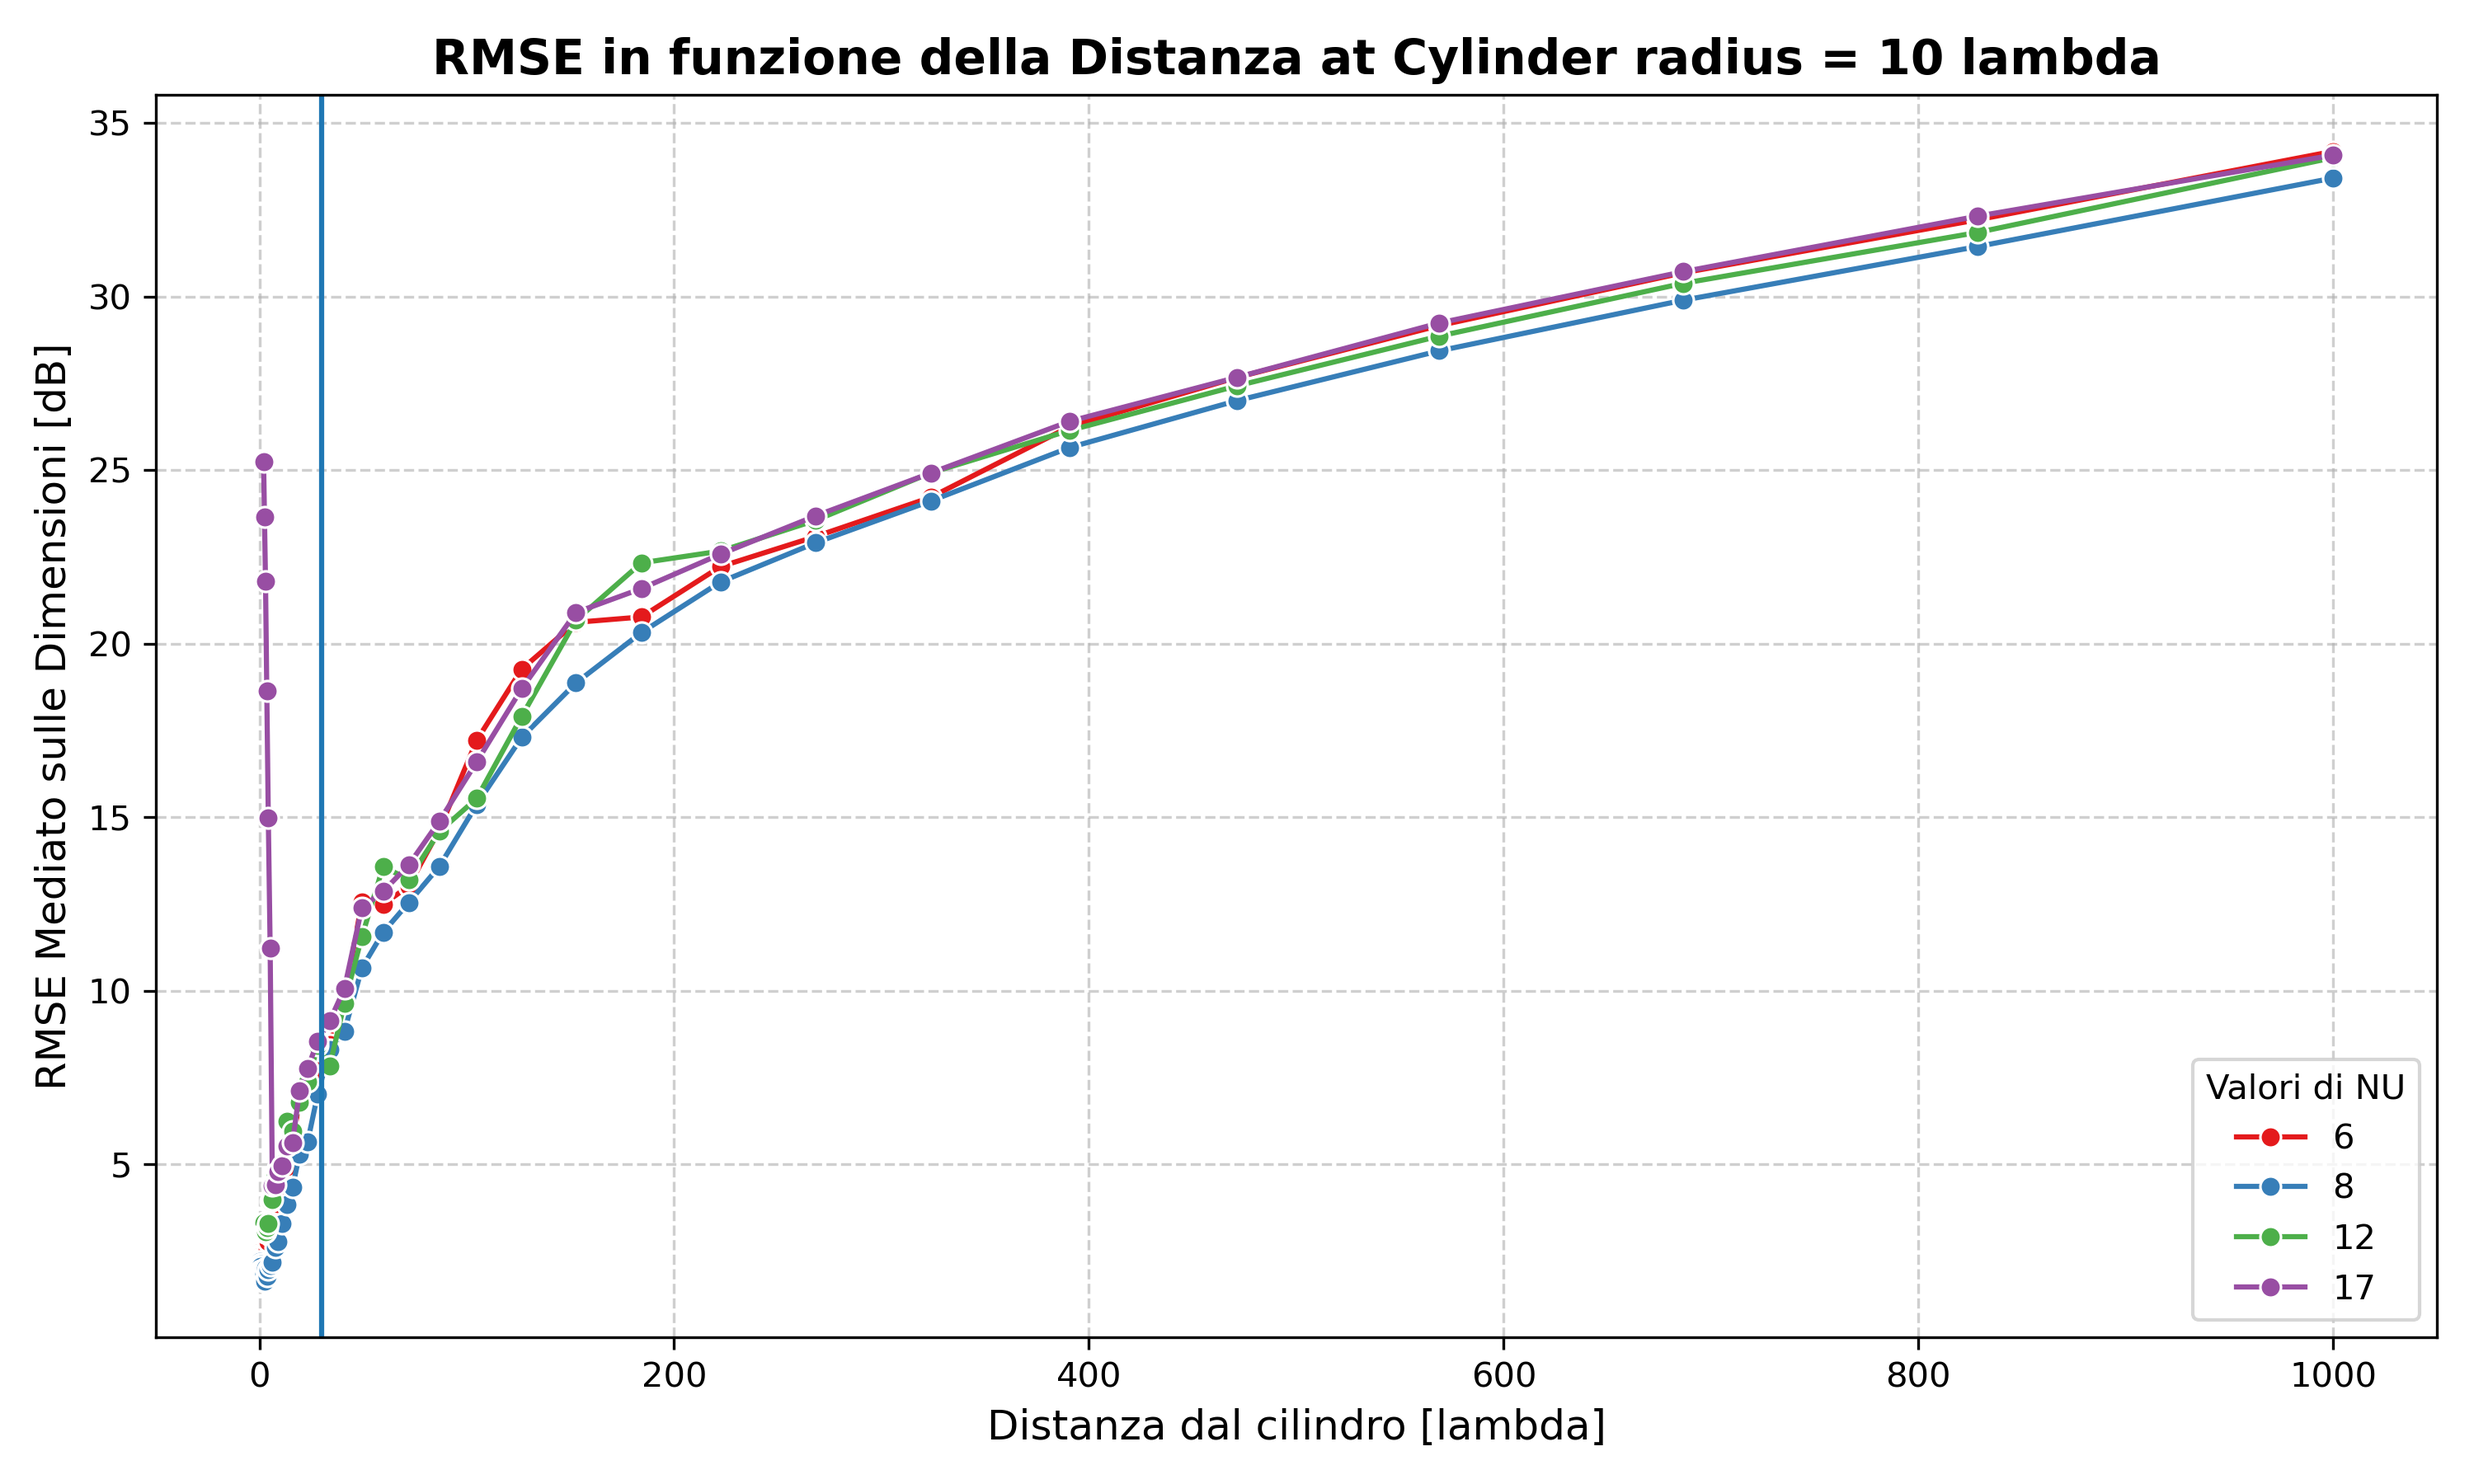
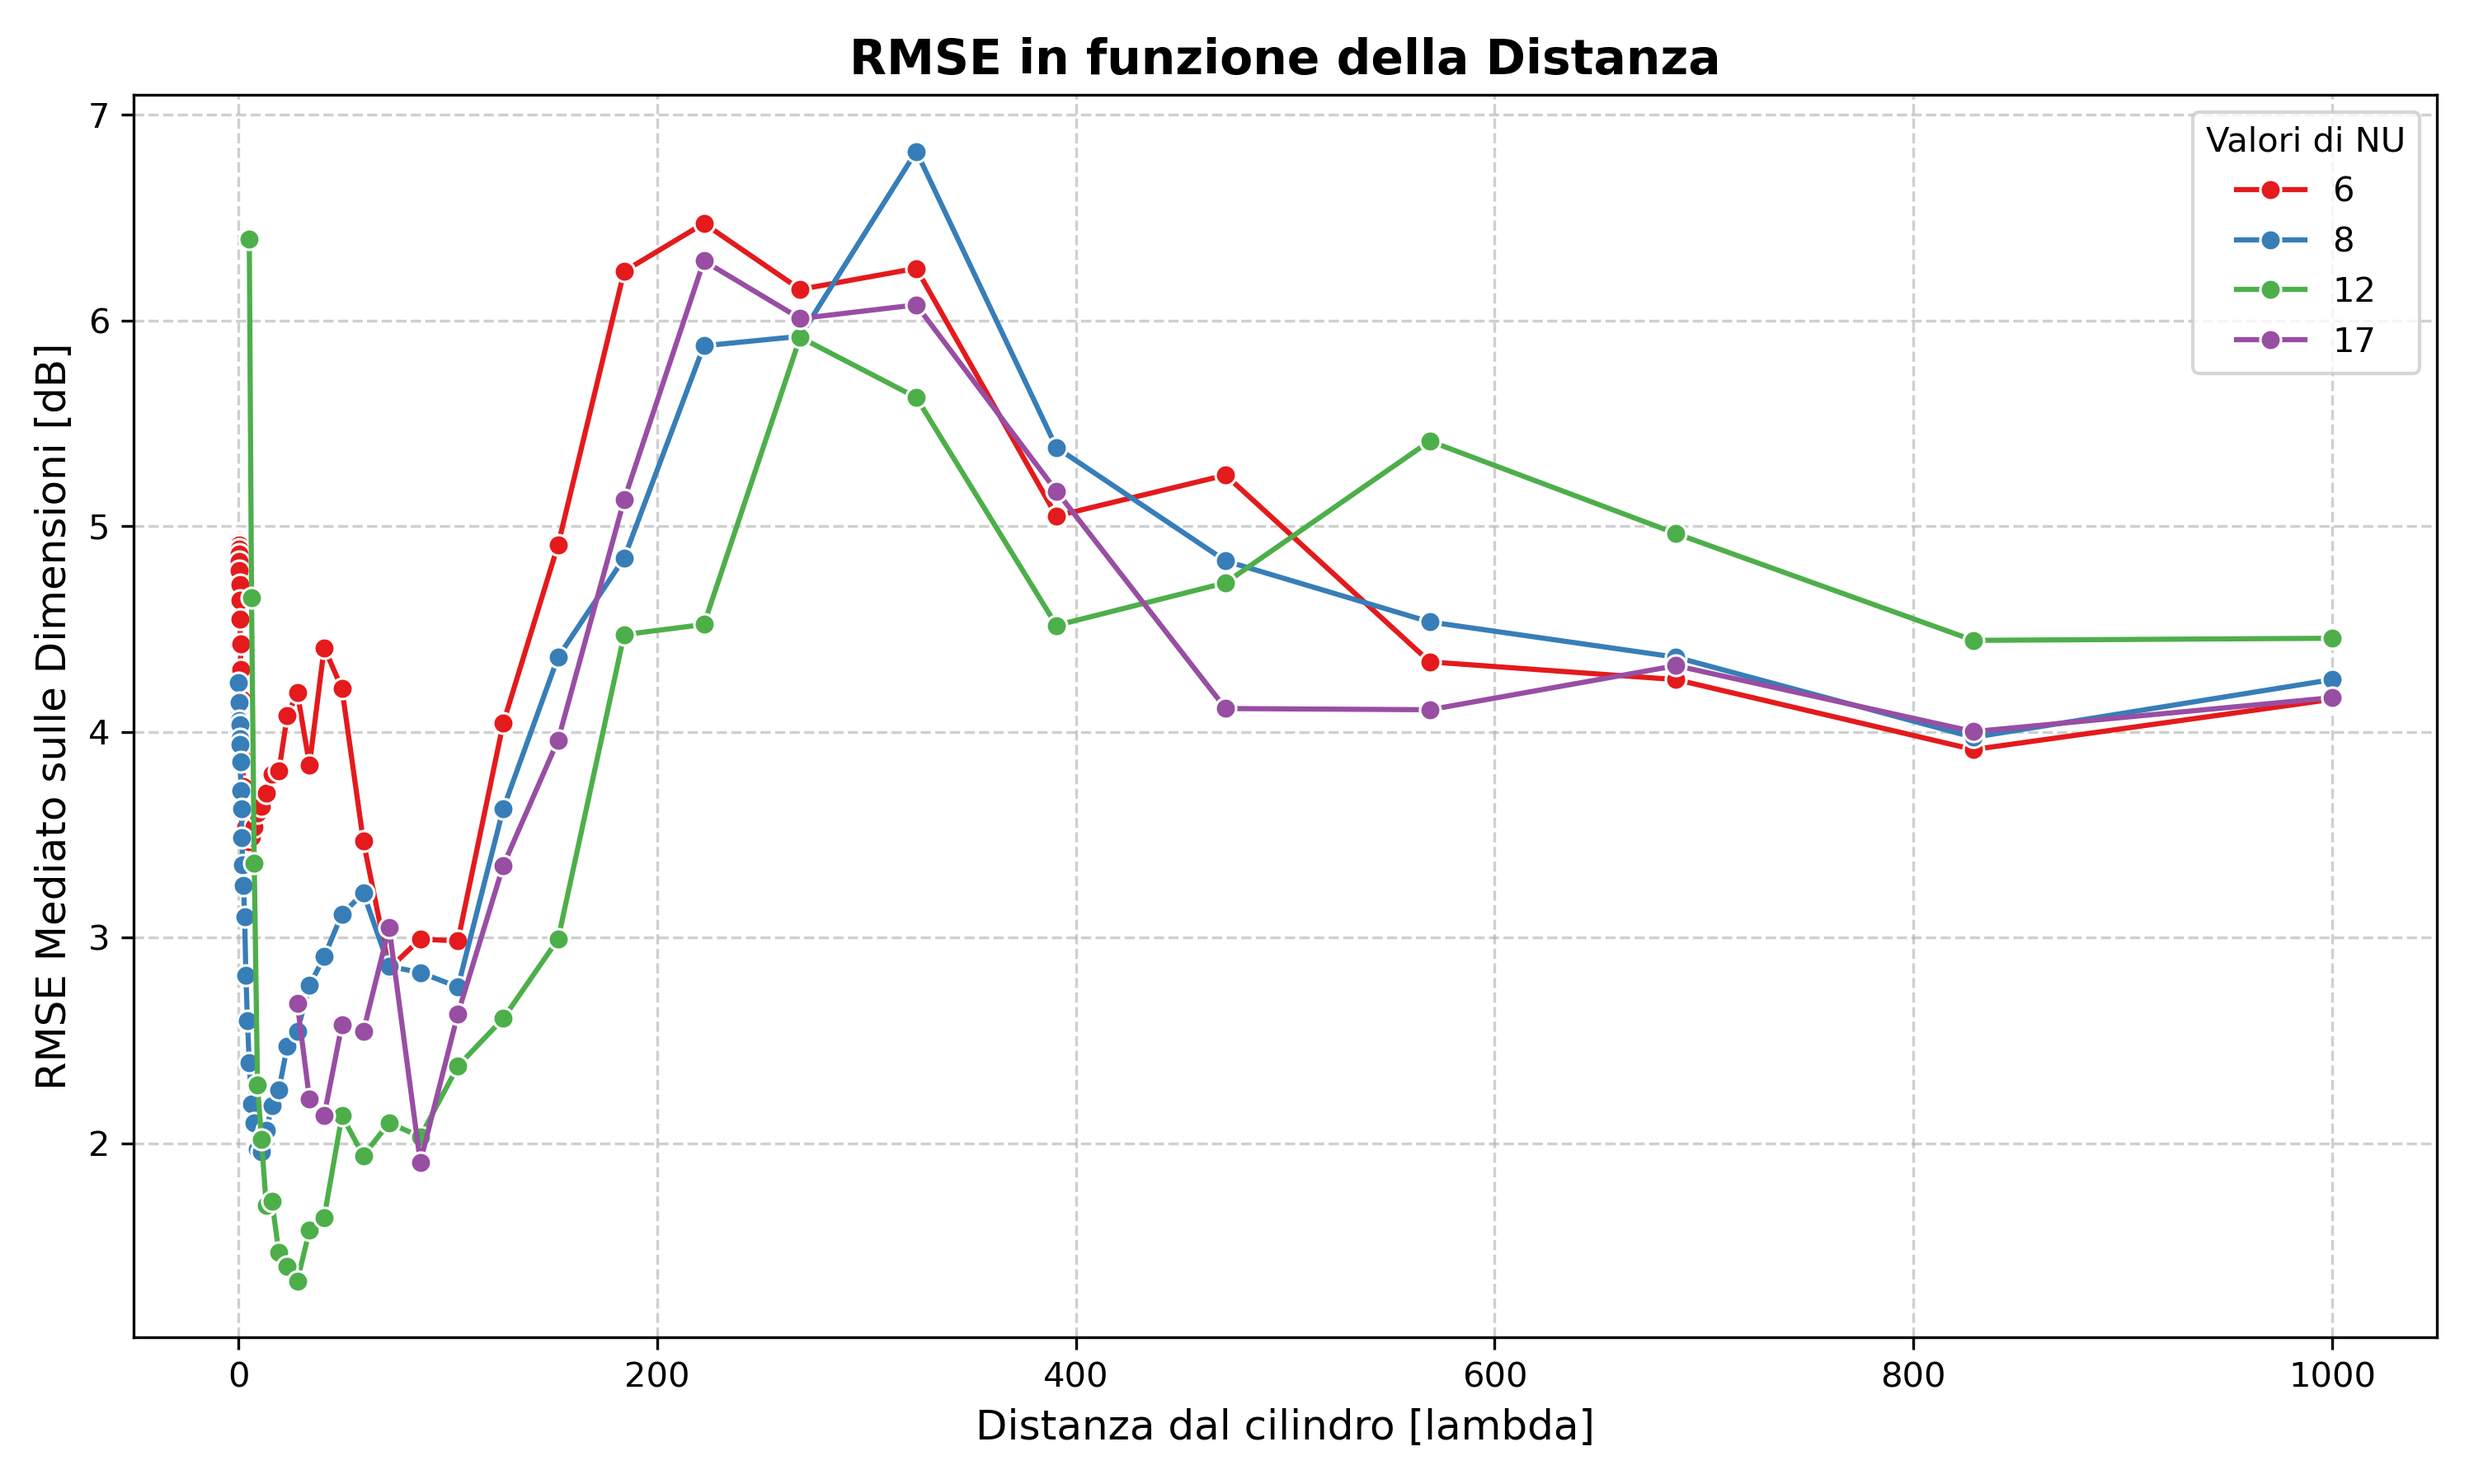
Correct the 17-nu 10-D cylinder. Update conclusions.md

diff --git a/RMSE_results/CORRECT_RESULTS/RMSE_plot_2.py b/RMSE_results/CORRECT_RESULTS/RMSE_plot_2.py
@@ -7,43 +7,27 @@ import matplotlib.pyplot as plt
 #D = [10, 12.8, 15.9, 19, 22.3, 25.6]
 #NU = [6, 8, 12, 17]
 
-d = 5
+d = 10
 NU = [6, 8, 12, 17]
 
 lamda = 3e8/2e9
 # 1. Lista per accumulare i dataframe mediati di ogni NU
-lista_mediati = []
+lista_df = []
     
 for nu in NU:
-    data_frames = []
-        # Lettura dati
     df = pd.read_csv(f"./RESULTS_{nu}_{d}.csv")
+
     df["cylinder_dimension"] = d
-    data_frames.append(df)
-
-    df_all = pd.concat(data_frames, ignore_index=True)
-    df_all['distance_in_lamda'] = df_all['distance_in_lamda'].round(2)
-
-    # 2. Calcolo la media dell'RMSE raggruppato per distanza
-    #df_dimension = df_all.groupby("distance_in_lamda")["RMSE"].mean().reset_index()
-    df_dimension = df_all
-    
-    # 3. Aggiungo la colonna 'nu' così sappiamo a quale ciclo appartengono i dati
-    df_dimension["nu"] = nu
-    
+    df["nu"] = nu
+    print(f"NU: {nu}") 
+    print(df)
     # Accumulo nella lista esterna
-    lista_mediati.append(df_dimension)
+    lista_df.append(df)
 
 # 4. Creazione del DataFrame finale unico
-df_finale = pd.concat(lista_mediati, ignore_index=True)
+df_finale = pd.concat(lista_df, ignore_index=True)
 
 print("--- DATAFRAME FINALE ACCUMULATO ---")
-print(df_finale.head(10)) # Mostra le prime 10 righe
-
-print(df_finale[df_finale["nu"]==12])
-print(df_finale[df_finale["nu"]==17])
-print(df_finale[df_finale["nu"]==8])
-print(df_finale[df_finale["nu"]==6])
 
 # =====================================================================
 # 5. GRAFICO CON SEABORN (X: distanza, Y: RMSE, Linee separate per NU)
@@ -62,7 +46,8 @@ sns.lineplot(
 )
 
 # Personalizzazione del grafico
-plt.title("RMSE in funzione della Distanza at Cylinder radius = 10 lambda", fontsize=14, fontweight='bold')
+plt.title(f"Cylinder radius = {d} $\lambda$", fontsize=14, fontweight='bold')
+plt.title(f"Cylinder radius = {d} $\lambda$", fontsize=14, fontweight='bold')
 plt.xlabel("Distanza dal cilindro [lambda]", fontsize=12)
 plt.ylabel("RMSE Mediato sulle Dimensioni [dB]", fontsize=12)
 plt.grid(True, linestyle="--", alpha=0.6)
@@ -71,7 +56,9 @@ D_meter = d*lamda
 plt.axvline(x=2*((2*D_meter)**2/lamda))
 # Mostra e salva il grafico
 plt.tight_layout()
-plt.savefig("confronto_RMSE_nu.png", dpi=300)
-plt.show()
+plt.savefig(f"RMSE_D_{d}.png", dpi=300)
+
+plt.xlim([0, 100])
+plt.savefig(f"near_RMSE_D_{d}.png", dpi=300)
 
 exit()

diff --git a/RMSE_results/CORRECT_RESULTS/RMSE_analyzer.py b/RMSE_results/CORRECT_RESULTS/RMSE_analyzer.py
@@ -1,0 +1,59 @@
+import pandas as pd
+import numpy as np
+import seaborn as sns
+import matplotlib.pyplot as plt
+
+# Cylinders dimension
+D = [10, 12.8, 15.9, 19, 22.3, 25.6]
+NU = [6, 8, 12, 17]
+
+    
+for nu in NU:
+    data_frames = []
+    for d in D:
+        # Reading data
+        df = pd.read_csv(f"./RESULTS_{nu}_{d}.csv")
+        
+        # Adding a coloum with D value in the starting csv
+        df["cylinder_dimension"] = d 
+    
+        data_frames.append(df)
+
+
+    df_all = pd.concat(data_frames, ignore_index=True)
+
+    df_all['distance_in_lamda'] = df_all['distance_in_lamda'].round(2)
+
+    # Extract data frame for near and far field
+    df_reactive = df_all[df_all["distance_in_lamda"]<=1]
+    
+    df_radiant = df_all[df_all["distance_in_lamda"]>=1]
+    df_radiant = df_radiant[df_radiant["distance_in_lamda"]<= 100]
+    df_radiant = df_radiant[df_radiant.index % 2 == 0]
+    
+    df_pivot_RMSE = df_reactive.pivot(index="distance_in_lamda", columns="cylinder_dimension", values="RMSE")
+
+    df_pivot_RMSE = df_pivot_RMSE.replace(np.inf, np.nan)
+
+    
+    plt.figure()
+    sns.heatmap(df_pivot_RMSE, annot=True, cmap="YlGnBu")
+    plt.title(f"RMSE REACTIVE with {nu}-EDGES cylinder")
+    plt.xlabel("Cylinder dimension [lambda]")
+    plt.ylabel("Distance from cylinder [lambda]")
+    plt.savefig(f"RMSE_reactive_{nu}")
+    plt.close()
+
+    df_pivot_RMSE = df_radiant.pivot(index="distance_in_lamda", columns="cylinder_dimension", values="RMSE")
+    df_pivot_RMSE = df_pivot_RMSE.replace(np.inf, np.nan)
+    
+    plt.figure()
+    sns.heatmap(df_pivot_RMSE, annot=True, cmap="YlGnBu")
+    plt.title(f"RMSE RADIANT with {nu}-EDGES cylinder")
+    plt.xlabel("Cylinder dimension [lambda]")
+    plt.ylabel("Distance from cylinder [lambda]")
+    plt.savefig(f"RMSE_radiant_{nu}", dpi=400, bbox_inches='tight')
+    plt.close()
+        
+
+

diff --git a/RMSE_results/CORRECT_RESULTS/RMSE_plot.py b/RMSE_results/CORRECT_RESULTS/RMSE_plot.py
@@ -65,41 +65,9 @@ plt.legend(title="Valori di NU")
 # Mostra e salva il grafico
 plt.tight_layout()
 plt.savefig("confronto_RMSE_nu.png", dpi=300)
-plt.show()
 
-exit()
-# =====================================================================
-# GRAFICO AGGIORNATO (Asse Y invertito e Linea a X=10)
-# =====================================================================
-plt.figure(figsize=(10, 6))
 
-# Creiamo il grafico a linee
-sns.lineplot(
-    data=df_finale, 
-    x="distance_in_lamda", 
-    y="RMSE", 
-    hue="nu", 
-    marker="o", 
-    palette="Set1"
-)
+plt.xlim([0, 100])
+plt.savefig("confronto_near_RMSE_nu.png", dpi=300)
 
-# 1. INVERTIRE L'ASSE Y (L'RMSE più basso va in alto)
-plt.gca().invert_yaxis()
 
-# 2. TRACCIARE LA LINEA VERTICALE A DISTANZA = 10
-# ls="--" la fa tratteggiata, color="red" la rende visibile, alpha ne regola la trasparenza
-plt.axvline(x=10, color="red", linestyle="--", linewidth=1.5, alpha=0.8, label="Distanza = 10 $\lambda$")
-
-# Personalizzazione del grafico
-plt.title("Andamento dell'RMSE Medio (Valori migliori in alto)", fontsize=14, fontweight='bold')
-plt.xlabel("Distanza dal cilindro [lambda]", fontsize=12)
-plt.ylabel("RMSE Mediato (Scala Invertita)", fontsize=12)
-plt.grid(True, linestyle="--", alpha=0.5)
-
-# Aggiorniamo la legenda per includere anche la linea verticale appena aggiunta
-plt.legend(title="Legenda")
-
-# Mostra e salva il grafico
-plt.tight_layout()
-plt.savefig("confronto_RMSE_nu_invertito.png", dpi=300)
-plt.show()
